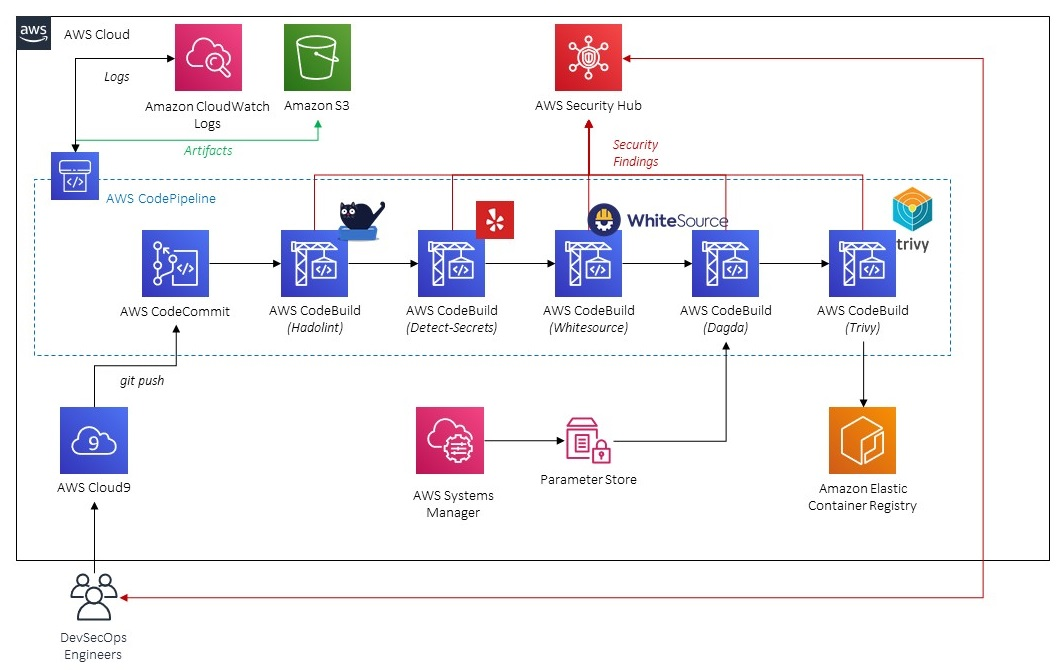
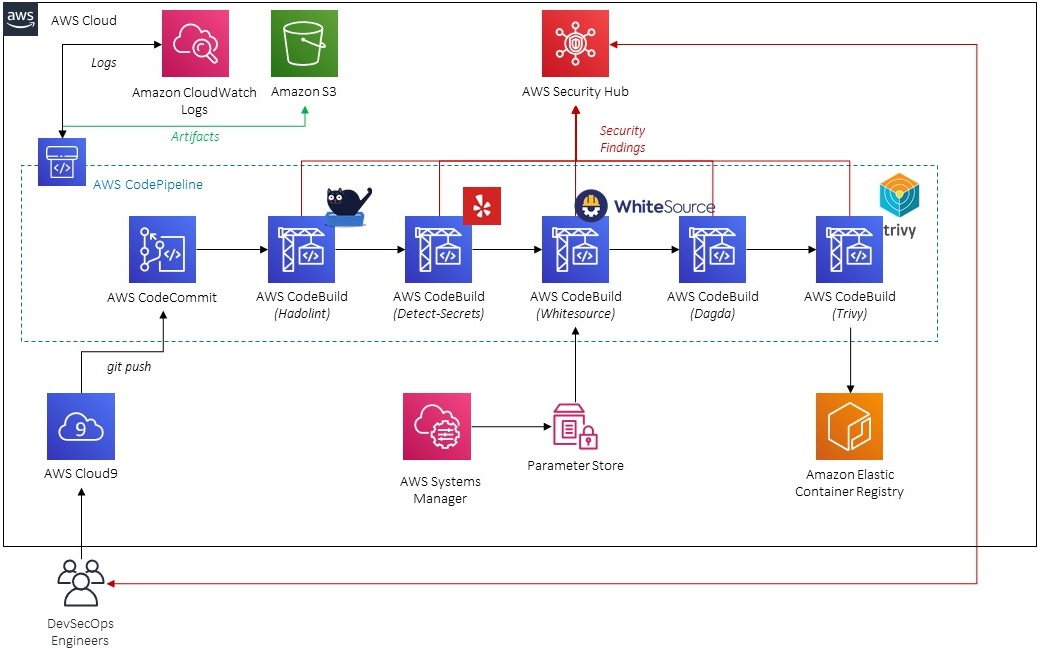
More architecture changes

Changed region(s): [[0.0, 0.0, 1.0, 1.0], [0.3689, 0.5855, 0.4611, 0.7704], [0.4918, 0.6163, 0.6763, 0.7396]]

diff --git a/README.md b/README.md
@@ -65,7 +65,7 @@ Each available pipeline will have an architecture diagram and a link to the dire
 [**Start Here**](/docker-k8s-double-decker)
 
 ### Flask DevSecOps Pipeline
-Architecture TODO
+![Flask DevSecOps Architecture](/flask-pipeline/flask-pipeline-architecture.jpg)
 
 [**Start Here**](/flask-pipeline)
 
